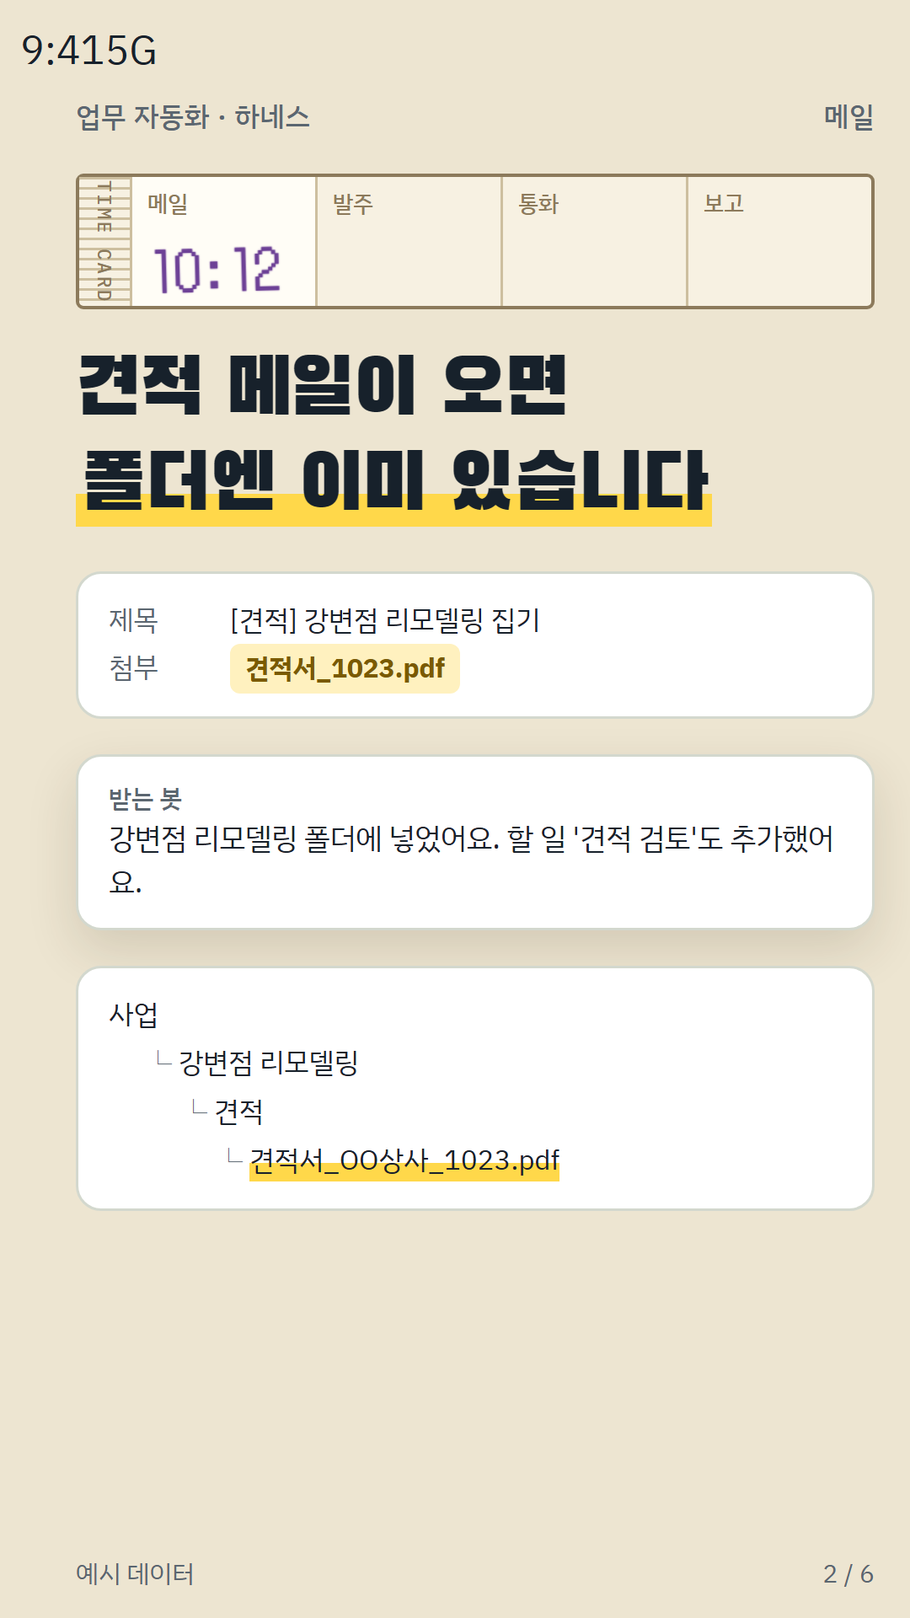
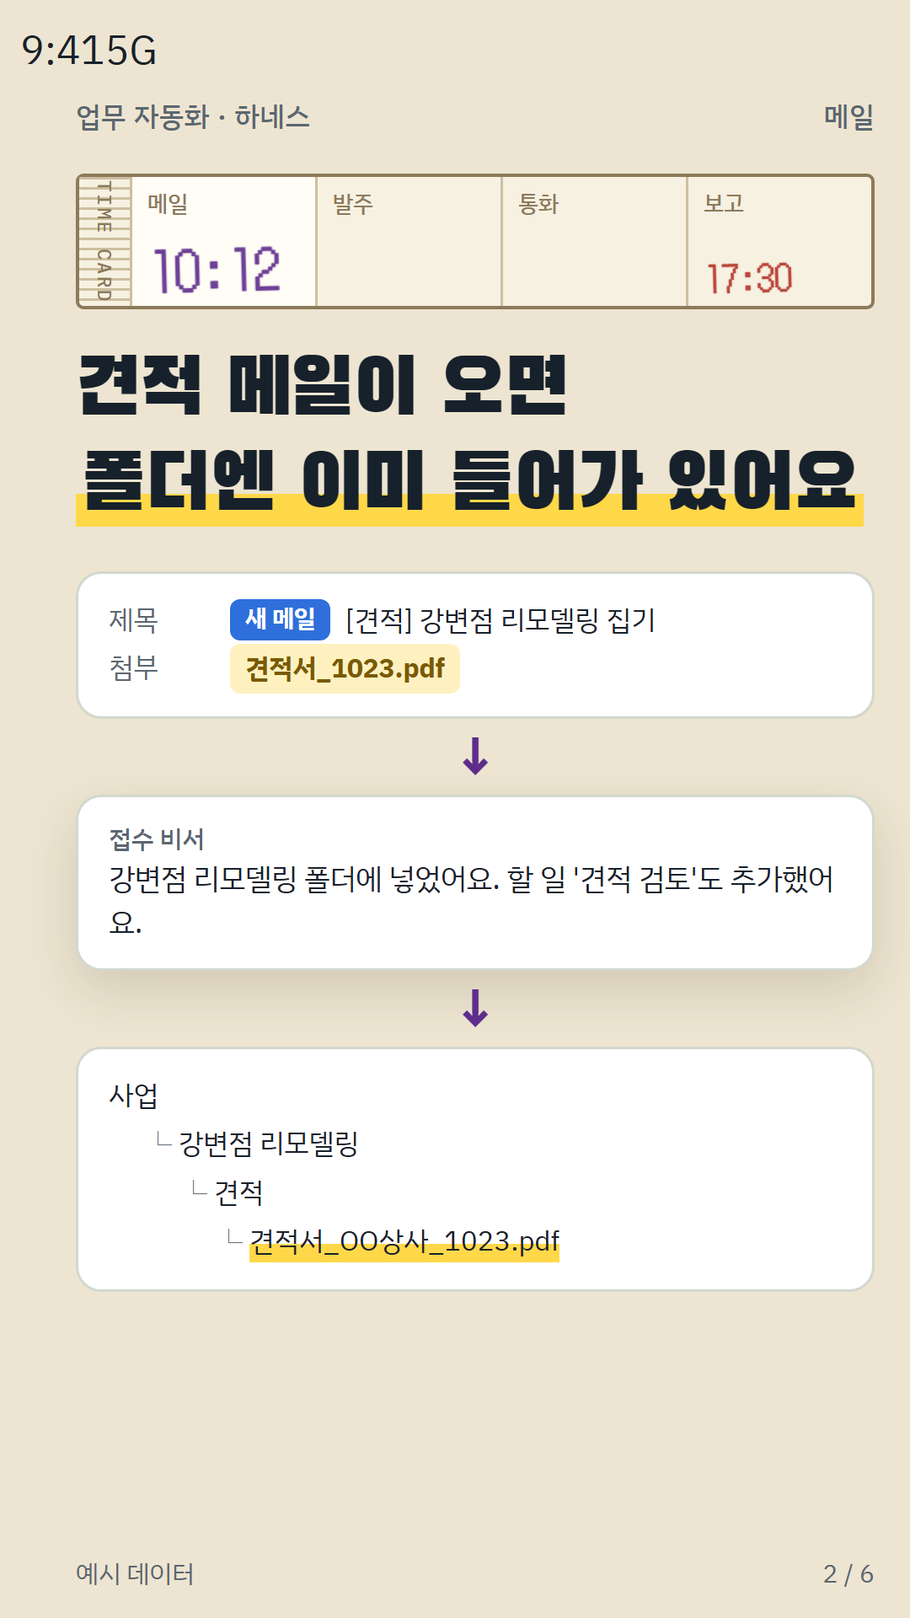
harness A 다듬기: 메일 슬라이드·견적 입력·통화 전사 화살표·비서 이름
- 2장면: 새 메일이 옆에서 들어오고 장면 사이 화살표
- 3장면: "이 견적서 입력해줘", 견적서 스캔→발주서 입력, 등록 완료 초록 체크
- 4장면: 파형 구간을 읽으면 위로 볼록한 화살표가 그 줄 윗변으로, 줄은 함께 팝업
- 5장면: 일일보고 먼저, 넣기 누르면 마지막 줄 팝업, 보고 칸은 한 번만 강조
- 봇 이름을 접수 비서·입력 비서로, 전체 속도 늦춤

diff --git a/harness_a.html b/harness_a.html
@@ -7,6 +7,7 @@
 /* 세계: 출퇴근 타임카드. 장면마다 카드 칸에 시각이 찍힘(점 찍는 기계 글씨), 지난 칸은 남고 다음 칸은 빈칸 */
 :root { --paper: #EDE5D1; --punch: #5E2D8C; --punch-out: #B3362B; --stock: #F7F1E2; --rule: #CDBF9F; --rule-ink: #8C7A5B }
 .chat { background: #E3D8C0 }
+.cap { word-break: keep-all }
 .tc { display: grid; grid-template-columns: 20px repeat(4, 1fr); background: var(--stock); border: 1.5px solid var(--rule-ink); border-radius: 3px; flex: none }
 .tc > * { border-left: 1px solid var(--rule); padding: 4px 6px 5px; min-height: 42px; display: flex; flex-direction: column; justify-content: space-between }
 .tc > i { border: 0; padding: 0; writing-mode: vertical-rl; font: 500 7.5px var(--f-mono); font-style: normal; letter-spacing: .12em; color: var(--rule-ink); align-items: center; justify-content: center; background: repeating-linear-gradient(var(--rule) 0 1px, transparent 1px 4px) }
@@ -18,9 +19,67 @@
 .tc .now .punch { font-size: 21px }
 .on .tc .now .punch { animation: punch .4s var(--d, .3s) cubic-bezier(.3,1.5,.5,1) both }
 @keyframes punch { from { opacity: 0; transform: translateY(-5px) scale(1.5); filter: blur(1.5px) } to { opacity: .9; transform: none; filter: none } }
+/* 표지 끝: 타임카드를 거꾸로 감음. 시각이 17:30 → 10:12 로 넘어가고 같은 순간 그 칸이 깜빡임 */
+.rewind { display: flex; align-items: center; gap: 10px; padding: 11px 14px; background: var(--ink); color: var(--stock); border-radius: 10px; font: 700 14.5px var(--f-body) }
+.rwi { color: #FF7A6B; font-size: 12px; letter-spacing: -3px }
+.on .rwi { animation: blink .35s 4s 4 both }
+@keyframes blink { 50% { opacity: .15 } }
+.rwt { margin-left: auto; display: inline-grid; font: 400 26px/1 "DotGothic16", var(--f-mono); color: #fff }
+.rwt i { grid-area: 1 / 1; font-style: normal; opacity: 0 }
+.on .rwt i { animation: flick .35s var(--d) both }
+.on .rwt i.last { animation: rise .3s var(--d) both }
+@keyframes flick { 0%, 100% { opacity: 0 } 15%, 85% { opacity: 1 } }
+.on .tc .rwf { animation: cellflash .35s var(--d) both }
+@keyframes cellflash { 0%, 100% { background: transparent } 30%, 70% { background: #FFE98A } }
+/* 5장면: 보고 칸은 표지에서 이미 찍혀 있음 → 다시 찍지 않고 한 번만 반짝 */
+.on .tc .again .punch { animation: none }
+.on .tc .again { animation: again .7s var(--d) ease-in-out }
+@keyframes again { 50% { background: #FFE98A; box-shadow: inset 0 0 0 2px var(--punch-out) } }
 .clock { margin: -2px 0 -6px } .clock .punch { font-size: 40px }
 .noti { padding: 9px 12px; font-size: 11.5px; line-height: 1.5; box-shadow: 0 8px 20px rgba(60,45,20,.14) }
 .noti b { display: block; font-size: 10px; color: var(--sub); font-weight: 500 }
+/* 2장면: 메일 카드가 옆에서 밀려 들어오고, 카드 사이 화살표로 다음 단계로 넘어감을 보임 */
+.on .slidein { animation: slideIn .5s var(--d) cubic-bezier(.2,1.2,.4,1) both }
+@keyframes slideIn { from { opacity: 0; transform: translateX(110%) } to { opacity: 1; transform: none } }
+.mail .new { display: inline-block; margin-right: 6px; padding: 1px 6px; border-radius: 4px; background: #2F6FDB; color: #fff; font: 700 9.5px/1.5 var(--f-body); vertical-align: 1px }
+/* 3장면: 사진을 훑는 줄 → 품목이 한 줄씩 입력되고 합계가 채워짐 */
+.photo { position: relative; overflow: hidden }
+.scan { position: absolute; left: 0; right: 0; top: 0; height: 14px; background: linear-gradient(transparent, rgba(47,111,219,.45)); border-bottom: 2px solid #2F6FDB; opacity: 0 }
+.on .scan { animation: scan .9s var(--d) ease-in-out both }
+@keyframes scan { 0% { opacity: 1; transform: translateY(-14px) } 90% { opacity: 1; transform: translateY(70px) } 100% { opacity: 0; transform: translateY(70px) } }
+.erp { margin-top: 5px; display: grid; gap: 2px; font-size: 11px }
+.erp > div { display: flex; justify-content: space-between; gap: 12px; padding: 3px 6px; background: #F4F1E8; border-radius: 4px }
+.erp > div span:last-child { font-family: var(--f-mono) }
+.on .erp > div { animation: type .4s var(--d) steps(10) both }
+@keyframes type { from { clip-path: inset(0 100% 0 0) } to { clip-path: inset(0) } }
+.erp > .sum { background: #FFE98A; font-weight: 700 }
+/* 4장면: 녹음 → 글로 바꾼 대화 → 할 일이 될 말에 형광펜 → 할 일 목록 */
+/* 파형을 네 구간으로 읽음: 구간 틀 + ↓ 가 뜨고 막대가 읽은 색으로, 이어서 그 구간의 전사 줄이 나옴 */
+.wave { position: relative; z-index: 1 }
+.wbars { position: relative }
+.on .wbars i { animation: grow .4s var(--d) both, readc .3s var(--r) forwards }
+@keyframes readc { to { background: var(--punch) } }
+.seg { position: absolute; top: -4px; bottom: -4px; width: 25%; border: 1.5px solid var(--punch); border-radius: 4px; background: rgba(94,45,140,.08); opacity: 0 }
+.on .seg { animation: segIn .25s var(--r) both, segOut .25s var(--x) forwards }
+@keyframes segIn { from { opacity: 0 } to { opacity: 1 } }
+@keyframes segOut { to { opacity: 0 } }
+/* 구간 → 그 전사 줄 끝까지 화살표를 그렸다가 지움 (좌표는 아래 스크립트가 실제 글자 위치로 계산) */
+.lnk { position: absolute; inset: 0; width: 100%; height: 100%; pointer-events: none; z-index: 2; overflow: visible }
+.lnk path { fill: none; stroke: var(--punch); stroke-width: 2; stroke-linecap: round; stroke-linejoin: round; opacity: 0 }
+.on .lnk .ln { stroke-linecap: butt; stroke-dasharray: 1 2; animation: lnDraw .56s var(--a) ease-in-out both, segOut .3s var(--z) forwards }
+@keyframes lnDraw { from { opacity: 1; stroke-dashoffset: 1 } to { opacity: 1; stroke-dashoffset: 0 } }
+.on .lnk .hd { animation: segIn .15s calc(var(--a) + .48s) both, segOut .3s var(--z) forwards }
+.talk { padding: 9px 12px; font-size: 11.5px; line-height: 1.5 }
+.talk h4 { margin: 0 0 3px; font-size: 10.5px; color: var(--sub); font-weight: 500 }
+.talk div { display: grid; grid-template-columns: 44px 1fr; padding: 1px 0 }
+.talk .sp { font-size: 10px; color: var(--sub); padding-top: 1px }
+.done { display: flex; align-items: center; gap: 7px }
+.ok { width: 20px; height: 20px; flex: none }
+.ok circle { fill: #22A559 } .ok path { fill: none; stroke: #fff; stroke-width: 2.6; stroke-linecap: round; stroke-linejoin: round; stroke-dasharray: 14 }
+.on .ok { animation: pop .3s var(--d) cubic-bezier(.3,1.6,.5,1) both }
+.on .ok path { animation: draw .3s calc(var(--d) + .2s) ease-out both }
+@keyframes draw { from { stroke-dashoffset: 14 } to { stroke-dashoffset: 0 } }
+.flow { align-self: center; height: 18px; margin: -8px 0; color: var(--punch); font: 700 21px/18px var(--f-body); font-style: normal }
 </style>
 
 <div class="phone" id="phone">
@@ -31,34 +90,37 @@
   <!-- 1 표지: 결과 먼저 (보고 칸만 찍힘, 앞 칸은 이제 돌려 볼 하루) -->
   <section class="scene">
     <div class="eyebrow"><span>포트폴리오 · 업무 자동화</span><span>구매 담당</span></div>
-    <div class="tc"><i>TIME CARD</i><div><b>메일</b></div><div><b>발주</b></div><div><b>통화</b></div><div class="now out"><b>보고</b><span class="punch" style="--d:.3s" data-sfx="click">17:30</span><small>퇴근 30분 전</small></div></div>
-    <h1 class="cap">일일보고는<br><mark>이미 써져 있습니다</mark></h1>
+    <div class="tc"><i>TIME CARD</i><div class="rwf" style="--d:5.05s"><b>메일</b></div><div class="rwf" style="--d:4.7s"><b>발주</b></div><div class="rwf" style="--d:4.35s"><b>통화</b></div><div class="now out"><b>보고</b><span class="punch" style="--d:.3s" data-sfx="click">17:30</span><small>퇴근 30분 전</small></div></div>
+    <h1 class="cap">퇴근 전 일일 업무 보고 초안이<br><mark>알아서 도착해요</mark></h1>
     <div class="chat fit">
-      <div class="msg bot in" style="--d:1.2s;max-width:94%"><span class="who">받는 봇 · 17:30</span>오늘 일일보고 초안이에요.
+      <div class="msg bot in" style="--d:1.4s;max-width:94%"><span class="who">접수 비서 · 17:30</span>오늘 일일보고 초안이에요.
         <div class="dline">강변점 집기 발주 (#1043)<span class="chip pass">확정</span></div>
         <div class="dline">강변점 견적 검토<span class="chip pass">확정</span></div>
         <div class="dline">앵커 볼트 추가 견적 요청<span class="chip pass">확정</span></div>
       </div>
     </div>
-    <p class="sub in" style="--d:2.2s">오늘 하루를 돌려 보겠습니다.</p>
+    <div class="rewind in" style="--d:3.6s"><span class="rwi">◀◀</span><b>어떻게 이렇게 정리됐는지<br>같이 볼까요</b>
+      <span class="rwt"><i style="--d:4s" data-sfx="tick">17:30</i><i style="--d:4.35s" data-sfx="tick">16:05</i><i style="--d:4.7s" data-sfx="tick">14:40</i><i class="last" style="--d:5.05s" data-sfx="tick">10:12</i></span></div>
     <div class="foot"><span>화면의 데이터는 모두 예시</span><span class="pg"></span></div>
   </section>
 
   <!-- 2 메일 -->
   <section class="scene">
     <div class="eyebrow"><span>업무 자동화 · 하네스</span><span>메일</span></div>
-    <div class="tc"><i>TIME CARD</i><div class="now"><b>메일</b><span class="punch" data-sfx="click">10:12</span></div><div><b>발주</b></div><div><b>통화</b></div><div><b>보고</b></div></div>
-    <h2 class="cap">견적 메일이 오면<br><mark>폴더엔 이미 있습니다</mark></h2>
-    <div class="card mail in" style="--d:.8s">
-      <div><span class="k">제목</span>[견적] 강변점 리모델링 집기</div>
+    <div class="tc"><i>TIME CARD</i><div class="now"><b>메일</b><span class="punch" data-sfx="click">10:12</span></div><div><b>발주</b></div><div><b>통화</b></div><div class="out"><b>보고</b><span class="punch">17:30</span></div></div>
+    <h2 class="cap">견적 메일이 오면<br><mark>폴더엔 이미 들어가 있어요</mark></h2>
+    <div class="card mail slidein" style="--d:1.4s" data-sfx="menu">
+      <div><span class="k">제목</span><span><span class="new">새 메일</span>[견적] 강변점 리모델링 집기</span></div>
       <div><span class="k">첨부</span><span class="chip ask">견적서_1023.pdf</span></div>
     </div>
-    <div class="card noti pop" style="--d:1.8s"><b>받는 봇</b>강변점 리모델링 폴더에 넣었어요. 할 일 '견적 검토'도 추가했어요.</div>
-    <div class="card tree in" style="--d:2.4s">
+    <i class="flow in" style="--d:2.9s">↓</i>
+    <div class="card noti pop" style="--d:3.2s"><b>접수 비서</b>강변점 리모델링 폴더에 넣었어요. 할 일 '견적 검토'도 추가했어요.</div>
+    <i class="flow in" style="--d:4.9s">↓</i>
+    <div class="card tree in" style="--d:5.2s">
       <div style="--lv:0">사업</div>
       <div style="--lv:1">강변점 리모델링</div>
       <div style="--lv:2">견적</div>
-      <div style="--lv:3"><span class="hl" style="--d:2.9s">견적서_OO상사_1023.pdf</span></div>
+      <div style="--lv:3"><span class="hl" style="--d:5.9s">견적서_OO상사_1023.pdf</span></div>
     </div>
     <div class="foot"><span>예시 데이터</span><span class="pg"></span></div>
   </section>
@@ -66,12 +128,14 @@
   <!-- 3 견적서 사진 -->
   <section class="scene">
     <div class="eyebrow"><span>업무 자동화 · 하네스</span><span>발주</span></div>
-    <div class="tc"><i>TIME CARD</i><div><b>메일</b><span class="punch">10:12</span></div><div class="now"><b>발주</b><span class="punch" data-sfx="click">14:40</span></div><div><b>통화</b></div><div><b>보고</b></div></div>
+    <div class="tc"><i>TIME CARD</i><div><b>메일</b><span class="punch">10:12</span></div><div class="now"><b>발주</b><span class="punch" data-sfx="click">14:40</span></div><div><b>통화</b></div><div class="out"><b>보고</b><span class="punch">17:30</span></div></div>
     <h2 class="cap">견적서는<br><mark>사진 한 장이면 끝</mark></h2>
     <div class="chat">
-      <div class="msg me in" style="--d:.7s"><div class="photo"><i></i><i></i><i></i><i></i><i></i></div>이거 입력</div>
-      <div class="msg bot in" style="--d:1.6s"><span class="who">실행 봇</span>견적서 읽음 · 케이블 3종, 합계 1,284,000원<div class="qbtns"><span class="go" style="animation-delay:2.6s">등록</span><span>수정</span></div></div>
-      <div class="msg bot in" style="--d:3.2s">발주서 #1043 등록 완료.</div>
+      <div class="msg me in" style="--d:1.2s"><div class="photo"><i></i><i></i><i></i><i></i><i></i><b class="scan" style="--d:1.7s"></b></div>이 견적서 입력해줘</div>
+      <div class="msg bot in" style="--d:2.9s"><span class="who">입력 비서 · 발주서 작성 중</span>
+        <div class="erp"><div style="--d:3.3s" data-sfx="tick"><span>케이블 A · 200m</span><span>412,000</span></div><div style="--d:3.8s" data-sfx="tick"><span>케이블 B · 150m</span><span>528,000</span></div><div style="--d:4.3s" data-sfx="tick"><span>케이블 C · 80m</span><span>344,000</span></div><div class="sum" style="--d:4.9s" data-sfx="pop"><span>합계</span><span>1,284,000원</span></div></div>
+        <div class="qbtns"><span class="go" style="animation-delay:5.9s">등록</span><span>수정</span></div></div>
+      <div class="msg bot in done" style="--d:6.5s"><svg class="ok" viewBox="0 0 20 20" style="--d:6.7s" data-sfx="pop" aria-hidden="true"><circle cx="10" cy="10" r="10"/><path d="M5.5 10.3l3 3 6-6.3"/></svg>발주서 #1043 등록 완료.</div>
     </div>
     <div class="foot"><span>예시 데이터</span><span class="pg"></span></div>
   </section>
@@ -79,13 +143,21 @@
   <!-- 4 통화 -->
   <section class="scene">
     <div class="eyebrow"><span>업무 자동화 · 하네스</span><span>통화</span></div>
-    <div class="tc"><i>TIME CARD</i><div><b>메일</b><span class="punch">10:12</span></div><div><b>발주</b><span class="punch">14:40</span></div><div class="now"><b>통화</b><span class="punch" data-sfx="click">16:05</span></div><div><b>보고</b></div></div>
-    <h2 class="cap">전화를 끊으면<br><mark>할 일이 먼저 와 있습니다</mark></h2>
-    <div class="card wave in" style="--d:.8s"><div><b>통화 녹음</b>04:12 · OO상사</div><div class="wbars" id="wbars"></div></div>
-    <div class="card todo pop" style="--d:2s">
+    <div class="tc"><i>TIME CARD</i><div><b>메일</b><span class="punch">10:12</span></div><div><b>발주</b><span class="punch">14:40</span></div><div class="now"><b>통화</b><span class="punch" data-sfx="click">16:05</span></div><div class="out"><b>보고</b><span class="punch">17:30</span></div></div>
+    <h2 class="cap">전화를 끊으면<br><mark>할 일이 먼저 와 있어요</mark></h2>
+    <div class="card wave in" style="--d:1.2s"><div><b>통화 녹음</b>04:12 · OO상사</div><div class="wbars" id="wbars"></div></div>
+    <div class="card talk in" style="--d:2.2s">
+      <h4>통화 내용 · 글로 바꿈</h4>
+      <div class="pop" style="--d:2.95s"><span class="sp">OO상사</span><span><span class="hl" style="--d:8.6s">납품일을 11/5로</span> 미뤄야 할 것 같아요.</span></div>
+      <div class="pop" style="--d:4.35s"><span class="sp">나</span><span>확인하고 <span class="hl" style="--d:9s">오늘 중으로 회신</span>드릴게요.</span></div>
+      <div class="pop" style="--d:5.75s"><span class="sp">OO상사</span><span><span class="hl" style="--d:11s">앵커 볼트도 추가 견적</span> 부탁드려요.</span></div>
+      <div class="pop" style="--d:7.15s"><span class="sp">나</span><span>네, <span class="hl" style="--d:11.4s">11/1까지</span> 보내드릴게요.</span></div>
+    </div>
+    <i class="flow in" style="--d:9.6s">↓</i>
+    <div class="card todo pop" style="--d:9.8s">
       <h4>할 일 추가</h4>
-      <div class="in" style="--d:2.3s"><span class="box"></span>납품일 변경 회신<span class="chip fail">오늘</span></div>
-      <div class="in" style="--d:2.6s"><span class="box"></span>앵커 볼트 추가 견적<span class="chip ask">11/1</span></div>
+      <div class="in" style="--d:10.1s" data-sfx="tick"><span class="box"></span>납품일 변경 회신<span class="chip fail">오늘</span></div>
+      <div class="in" style="--d:12s" data-sfx="tick"><span class="box"></span>앵커 볼트 추가 견적<span class="chip ask">11/1</span></div>
     </div>
     <div class="foot"><span>녹음은 회사 PC 안에서만 글로 바꿉니다 · 예시 데이터</span><span class="pg"></span></div>
   </section>
@@ -93,20 +165,21 @@
   <!-- 5 퇴근 -->
   <section class="scene">
     <div class="eyebrow"><span>업무 자동화 · 하네스</span><span>보고</span></div>
-    <div class="tc"><i>TIME CARD</i><div><b>메일</b><span class="punch">10:12</span></div><div><b>발주</b><span class="punch">14:40</span></div><div><b>통화</b><span class="punch">16:05</span></div><div class="now out"><b>보고</b><span class="punch" data-sfx="click">17:30</span></div></div>
+    <div class="tc"><i>TIME CARD</i><div><b>메일</b><span class="punch">10:12</span></div><div><b>발주</b><span class="punch">14:40</span></div><div><b>통화</b><span class="punch">16:05</span></div><div class="now out again" style="--d:.4s" data-sfx="tick"><b>보고</b><span class="punch">17:30</span></div></div>
     <h2 class="cap">넣기 한 번<br><mark>그리고 퇴근</mark></h2>
-    <div class="chat fit">
-      <div class="msg bot in" style="--d:.7s;max-width:94%"><span class="who">받는 봇</span>하나 더 있어요.
-        <div class="dline">OO상사 통화: 납품일 변경<span class="mini"><span class="go" style="--d:1.8s">넣기</span><span>빼기</span></span></div>
-      </div>
-    </div>
-    <div class="card daily in" style="--d:2.4s">
+    <!-- 보고 먼저(세 줄) → 추가 사항 → 넣기 누르는 순간 마지막 줄 팝업 -->
+    <div class="card daily in" style="--d:1.2s">
       <h4>오늘 일일보고</h4>
       · 강변점 집기 발주 (#1043)<br>
-      · 강변점 견적 검토 · 앵커 볼트 추가 견적 요청<br>
-      · <span class="hl" style="--d:2.9s">OO상사 통화: 납품일 11/5로 변경</span>
+      · 강변점 견적 검토 · 앵커 볼트 추가 견적 요청
+      <div class="pop" style="--d:4.3s;transform-origin:left center">· <span class="hl" style="--d:4.9s">OO상사 통화: 납품일 11/5로 변경</span></div>
     </div>
-    <div class="card result pop" style="--d:3.6s"><b>일일보고 끝</b><span>퇴근</span></div>
+    <div class="chat fit">
+      <div class="msg bot in" style="--d:2.4s;max-width:94%"><span class="who">접수 비서</span>보고에 추가할 사항이 하나 더 있어요.
+        <div class="dline">OO상사 통화: 납품일 변경<span class="mini"><span class="go" style="--d:3.9s">넣기</span><span>빼기</span></span></div>
+      </div>
+    </div>
+    <div class="card result pop" style="--d:6s"><b>일일보고 끝</b><span>퇴근</span></div>
     <div class="foot"><span>예시 데이터</span><span class="pg"></span></div>
   </section>
 
@@ -114,15 +187,15 @@
   <section class="scene">
     <div class="eyebrow"><span>업무 자동화 · 하네스</span><span>다음 날</span></div>
     <div class="clock in" style="--d:.2s"><span class="punch">아침</span></div>
-    <h2 class="cap">밤사이 일은<br><mark>봇이 점검해 뒀습니다</mark></h2>
-    <div class="card result pop" style="--d:.9s"><b>17항목 전부 정상</b><span>오늘 문제 없음</span></div>
+    <h2 class="cap">밤사이 일은<br><mark>비서가 점검해 뒀어요</mark></h2>
+    <div class="card result pop" style="--d:1.2s"><b>17항목 전부 정상</b><span>오늘 문제 없음</span></div>
     <div class="legend">
-      <div class="in" style="--d:1.6s"><b>받는 봇</b>말·메일·전화를 할 일로 붙잡아 둡니다</div>
-      <div class="in" style="--d:1.9s"><b>실행 봇</b>시키면 ERP와 기록에 대신 입력합니다</div>
-      <div class="in" style="--d:2.2s"><b>기록 DB</b>발주·구매·재고가 모이는 사내 웹</div>
-      <div class="in" style="--d:2.5s"><b>일일보고</b>퇴근 전 봇이 초안을 써 둡니다</div>
+      <div class="in" style="--d:2.6s"><b>접수 비서</b>말·메일·전화를 할 일로 붙잡아 둡니다</div>
+      <div class="in" style="--d:3.2s"><b>입력 비서</b>시키면 ERP와 기록에 대신 입력합니다</div>
+      <div class="in" style="--d:3.8s"><b>기록 DB</b>발주·구매·재고가 모이는 사내 웹</div>
+      <div class="in" style="--d:4.4s"><b>일일보고</b>퇴근 전 비서가 초안을 써 둡니다</div>
     </div>
-    <div class="card kpis-run in" style="--d:3s"><div>ERP 수집<b>30분마다</b></div><div>스스로 점검<b>매일 아침</b></div><div>조작은<b>폰에서</b></div></div>
+    <div class="card kpis-run in" style="--d:5.4s"><div>ERP 수집<b>30분마다</b></div><div>스스로 점검<b>매일 아침</b></div><div>조작은<b>폰에서</b></div></div>
     <div class="foot"><span>이 묶음을 '하네스'라 부릅니다 · 점검 결과는 실제 (2026-10-25)</span><span class="pg"></span></div>
   </section>
 
@@ -140,6 +213,33 @@
 
 <script>
 const hs = [30, 55, 40, 80, 62, 35, 90, 70, 45, 25, 60, 85, 50, 30, 75, 95, 55, 40, 65, 35, 50, 80, 45, 30];
-document.getElementById('wbars').innerHTML = hs.map((h, i) => `<i style="--h:${h}%;--d:${(0.9 + i * 0.03).toFixed(2)}s"></i>`).join('');
+// 파형 구간 k(막대 6개씩)를 읽는 시각. 화살표가 +0.2초부터 그 줄로 그려지고, 줄은 +0.45초에 튀어나와 화살촉 도착(+0.76초)과 맞물리고, 화살표는 +1.2초에 사라짐
+const R = [2.5, 3.9, 5.3, 6.7];
+const wb = document.getElementById('wbars'), sc = wb.closest('.scene');
+wb.innerHTML = hs.map((h, i) => `<i style="--h:${h}%;--d:${(1.3 + i * 0.03).toFixed(2)}s;--r:${R[i / 6 | 0]}s"></i>`).join('')
+  + R.map((r, k) => `<b class="seg" style="left:${k * 25}%;--r:${r}s;--x:${R[k + 1] ?? r + 1.4}s"></b>`).join('');
+sc.insertAdjacentHTML('beforeend', '<svg class="lnk" aria-hidden="true"></svg>');
+// 화살표 길: 구간 아래 → 그 줄 글자 끝으로 바로, 살짝 휜 곡선. 글자와 겹쳐도 됨 (곧 사라지므로)
+function links() {
+  const base = sc.getBoundingClientRect(), z = base.width / 360;
+  const at = r => ({ l: (r.left - base.left) / z, r: (r.right - base.left) / z, t: (r.top - base.top) / z, b: (r.bottom - base.top) / z });
+  const segs = wb.querySelectorAll('.seg'), lines = sc.querySelectorAll('.talk > div > span:last-child');
+  sc.querySelector('.lnk').innerHTML = R.map((r, k) => {
+    const s = at(segs[k].getBoundingClientRect()), rg = document.createRange();
+    rg.selectNodeContents(lines[k]);
+    const t = at(rg.getBoundingClientRect());
+    const ex = (t.l + t.r) / 2, ey = t.t - 1;   // 그 줄 글자 윗변 가운데
+    let sx = (s.l + s.r) / 2, sy = s.b + 2;     // 기본: 구간 아랫변 가운데에서 출발
+    // 출발 각도가 수평 30° 미만으로 눕는 화살표는 구간 박스 옆(끝점 쪽)에서 출발
+    if (0.85 * Math.abs(ex - sx) > 1.73 * 0.25 * (ey - sy)) { sx = ex < sx ? s.l - 2 : s.r + 2; sy = s.b - (s.b - s.t) * 0.2 }   // 옆변 아래에서 20% 높이
+    const cx = ex + (sx - ex) * 0.15, cy = sy + (ey - sy) * 0.25;   // 조절점을 끝점 위쪽에 둬 위로 볼록, 화살촉은 거의 수직으로 내려꽂힘 (수직 기준 ±20° 이내)
+    const ux = (ex - cx) / Math.hypot(ex - cx, ey - cy), uy = (ey - cy) / Math.hypot(ex - cx, ey - cy);
+    const h = (a, b) => `${(ex - ux * 7 + a * -uy * 5).toFixed(1)},${(ey - uy * 7 + a * ux * 5).toFixed(1)}`;
+    const st = `--a:${r + 0.2}s;--z:${r + 1.2}s`;
+    const d = `M${sx},${sy} Q${cx},${cy} ${ex},${ey}`, hd = `M${h(1)} L${ex},${ey} L${h(-1)}`;
+    return `<path class="ln" pathLength="1" style="${st}" d="${d}"/><path class="hd" style="${st}" d="${hd}"/>`;
+  }).join('');
+}
+links(); document.fonts.ready.then(links); addEventListener('resize', links);
 </script>
 <script src="demo.js"></script>
